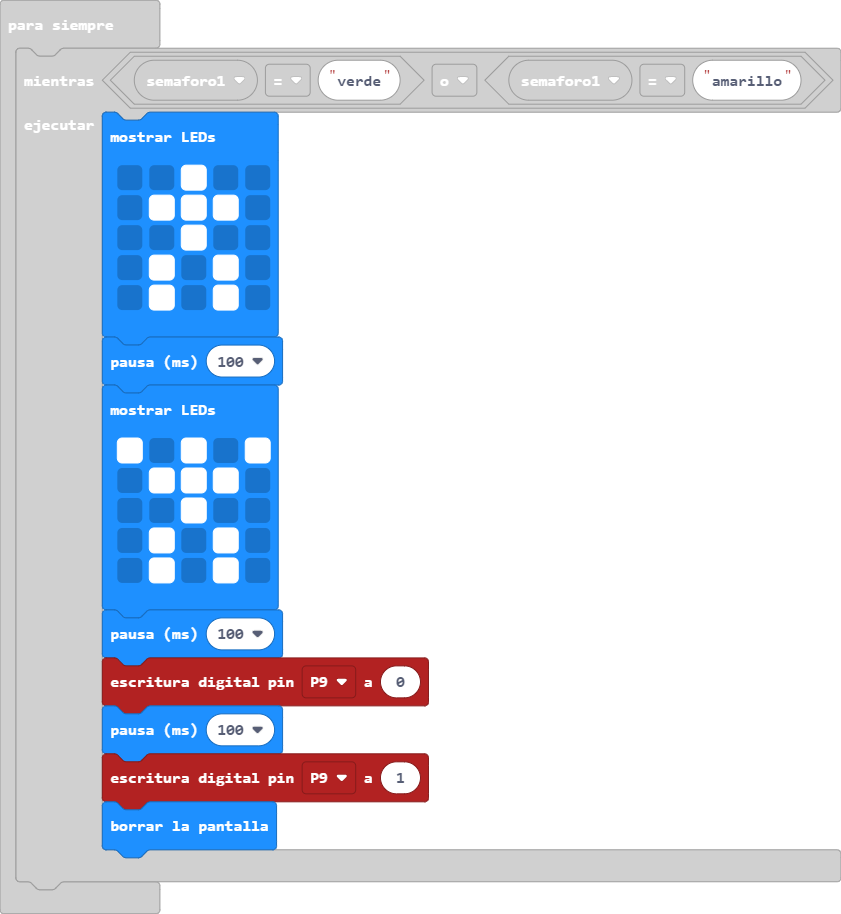
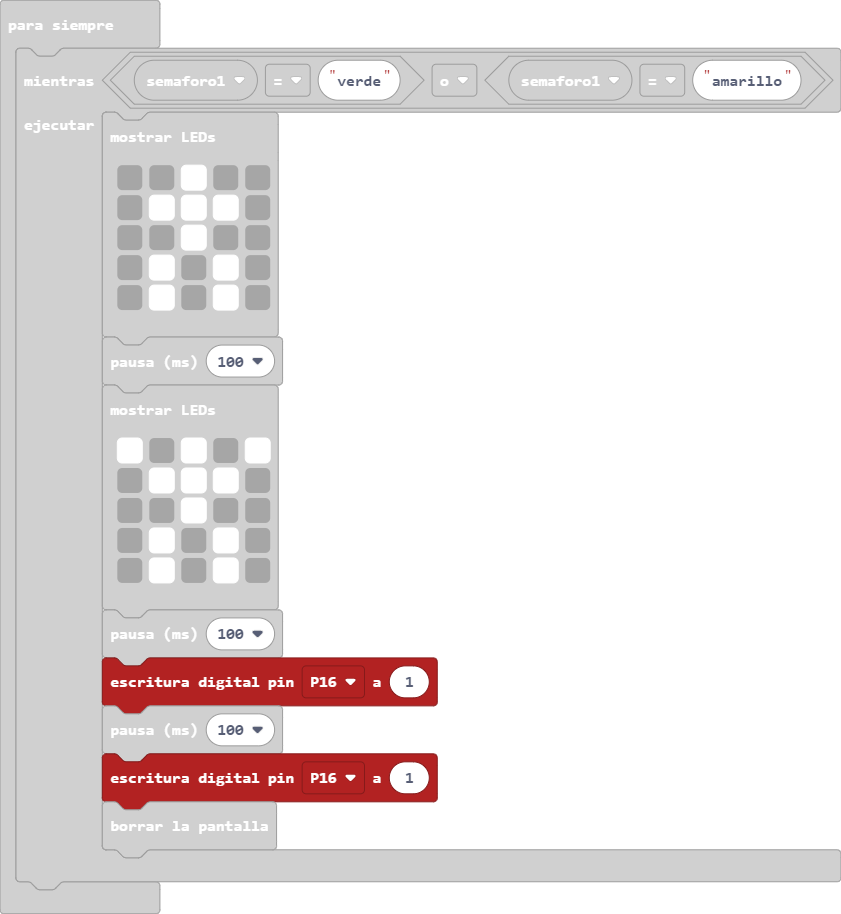
Actualizar main.blocks, main.ts

diff --git a/main.ts b/main.ts
@@ -51,9 +51,9 @@ basic.forever(function () {
             . # . # .
             `)
         basic.pause(100)
-        pins.digitalWritePin(DigitalPin.P9, 0)
+        pins.digitalWritePin(DigitalPin.P16, 1)
         basic.pause(100)
-        pins.digitalWritePin(DigitalPin.P9, 1)
+        pins.digitalWritePin(DigitalPin.P16, 1)
         basic.clearScreen()
     }
 })
